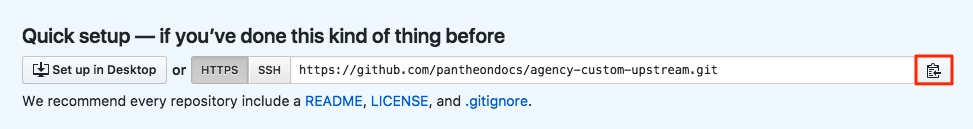
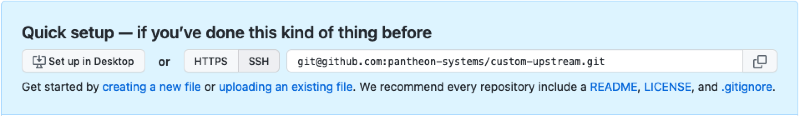
clone with ssh

diff --git a/source/content/create-custom-upstream.md b/source/content/create-custom-upstream.md
@@ -27,6 +27,8 @@ Choose your preferred Git host:
 
 1. [Log in to GitHub](https://github.com/login/).
 
+1. If you don't already have an [SSH key](https://github.com/settings/keys) associated with your GitHub account, [create one](/ssh-keys#generate-ssh-key) and [add it to GitHub](https://github.com/settings/ssh/new).
+
 1. If this is your first time logging in to GitHub, click [**Start Project**](https://github.com/new). Otherwise, click [**New**](https://github.com/new) from the Repositories sidebar on the left.
 
 1. Name the repository.
@@ -49,20 +51,20 @@ Choose your preferred Git host:
 
 1. Click **Create Repository**.
 
-1. Copy the repository URL (HTTPS), found in the Quick setup section:
+1. Copy the repository URI (SSH), found in the **Quick setup** section:
 
-  ![GitHub Repo URL](../images/github-repo-url.png)
+  ![GitHub Repo URI](../images/github-repo-url.png)
 
-1. Clone the repository to your local from the command line (replace the URL):
+1. Clone the repository to your local from the command line (replace the URI):
 
   ```bash{promptUser: user}
-  git clone https://github.com/pantheondocs/agency-custom-upstream.git
+  git clone git@github.com:pantheon-systems/custom-upstream.git
   ```
 
 1. Navigate to the repository's root directory:
 
   ```bash{promptUser: user}
-  cd agency-custom-upstream
+  cd custom-upstream
   ```
 
 </Tab>
@@ -78,10 +80,10 @@ Choose your preferred Git host:
 1. Name the repository.
 
 1. Select whether the repository will be private or if it can be publicly accessible from outside your organization.
- 
-1. Select **No** from the dropdown menu for **Include a README?** 
- 
-1. Select **No** from the dropdown menu for **Include .gitignore?**
+
+1. Select **No** from the dropdown menu for **Include a README?**.
+
+1. Select **No** from the dropdown menu for **Include .gitignore?**.
 
 1. Click **Create Repository**.
 
